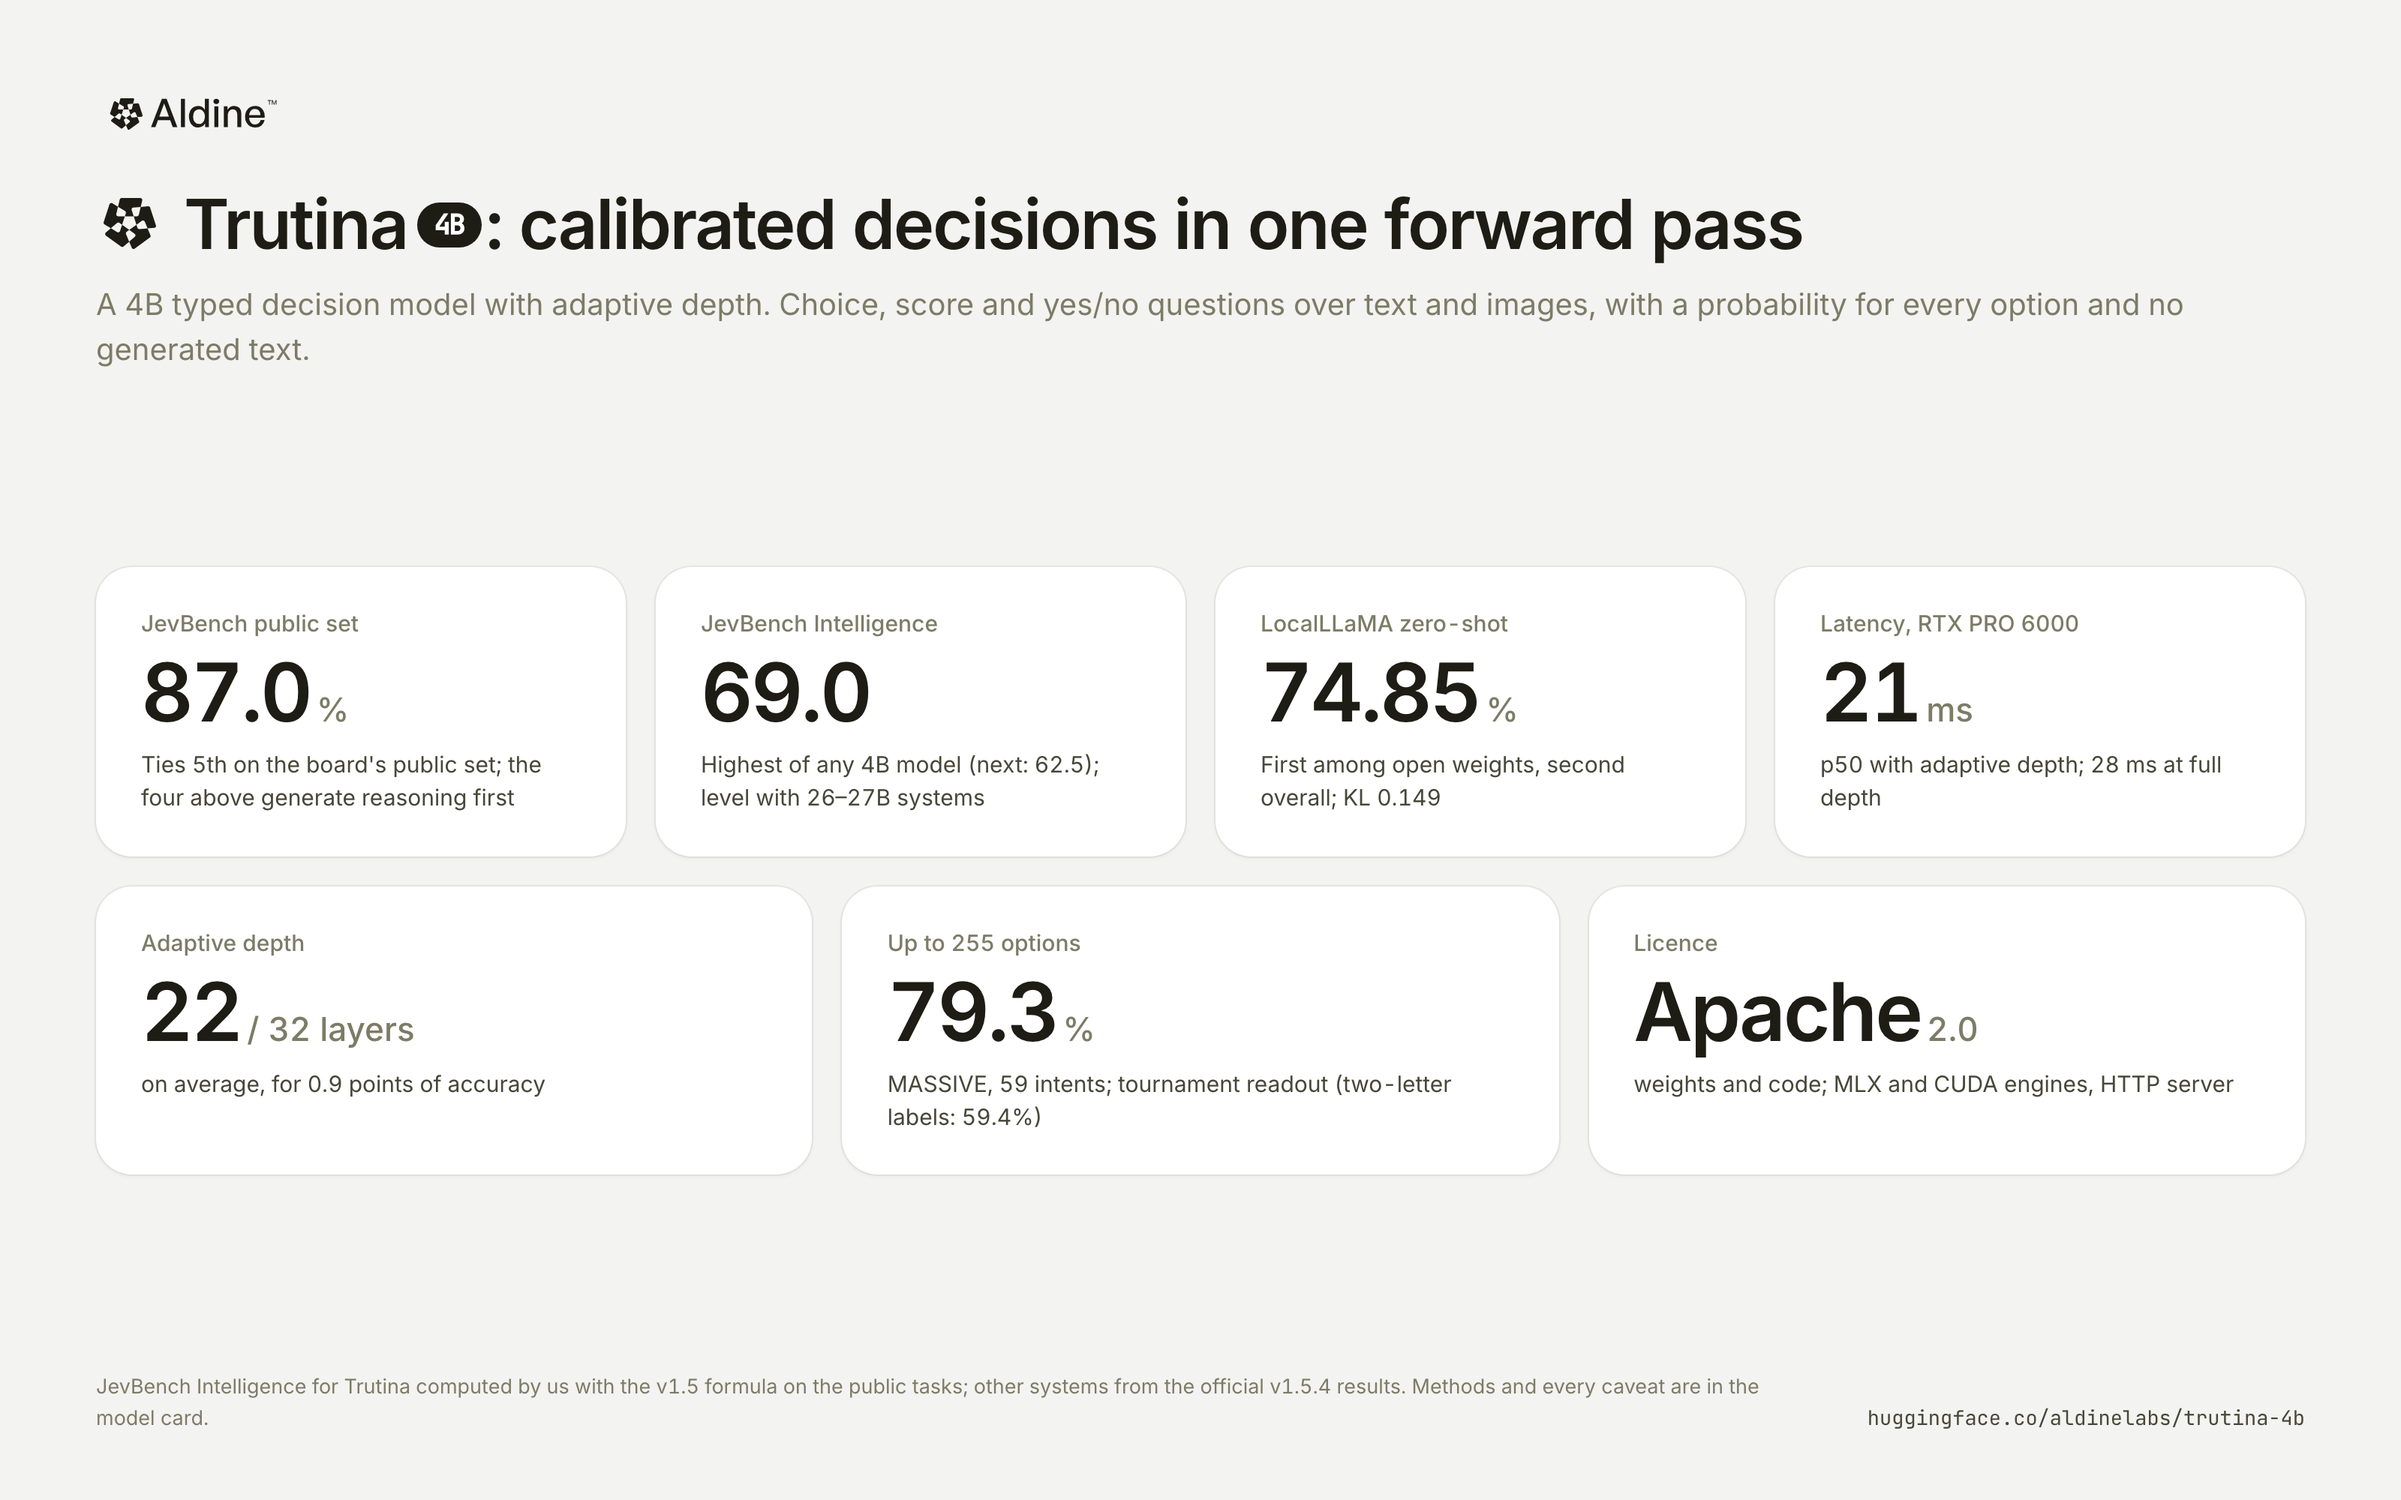
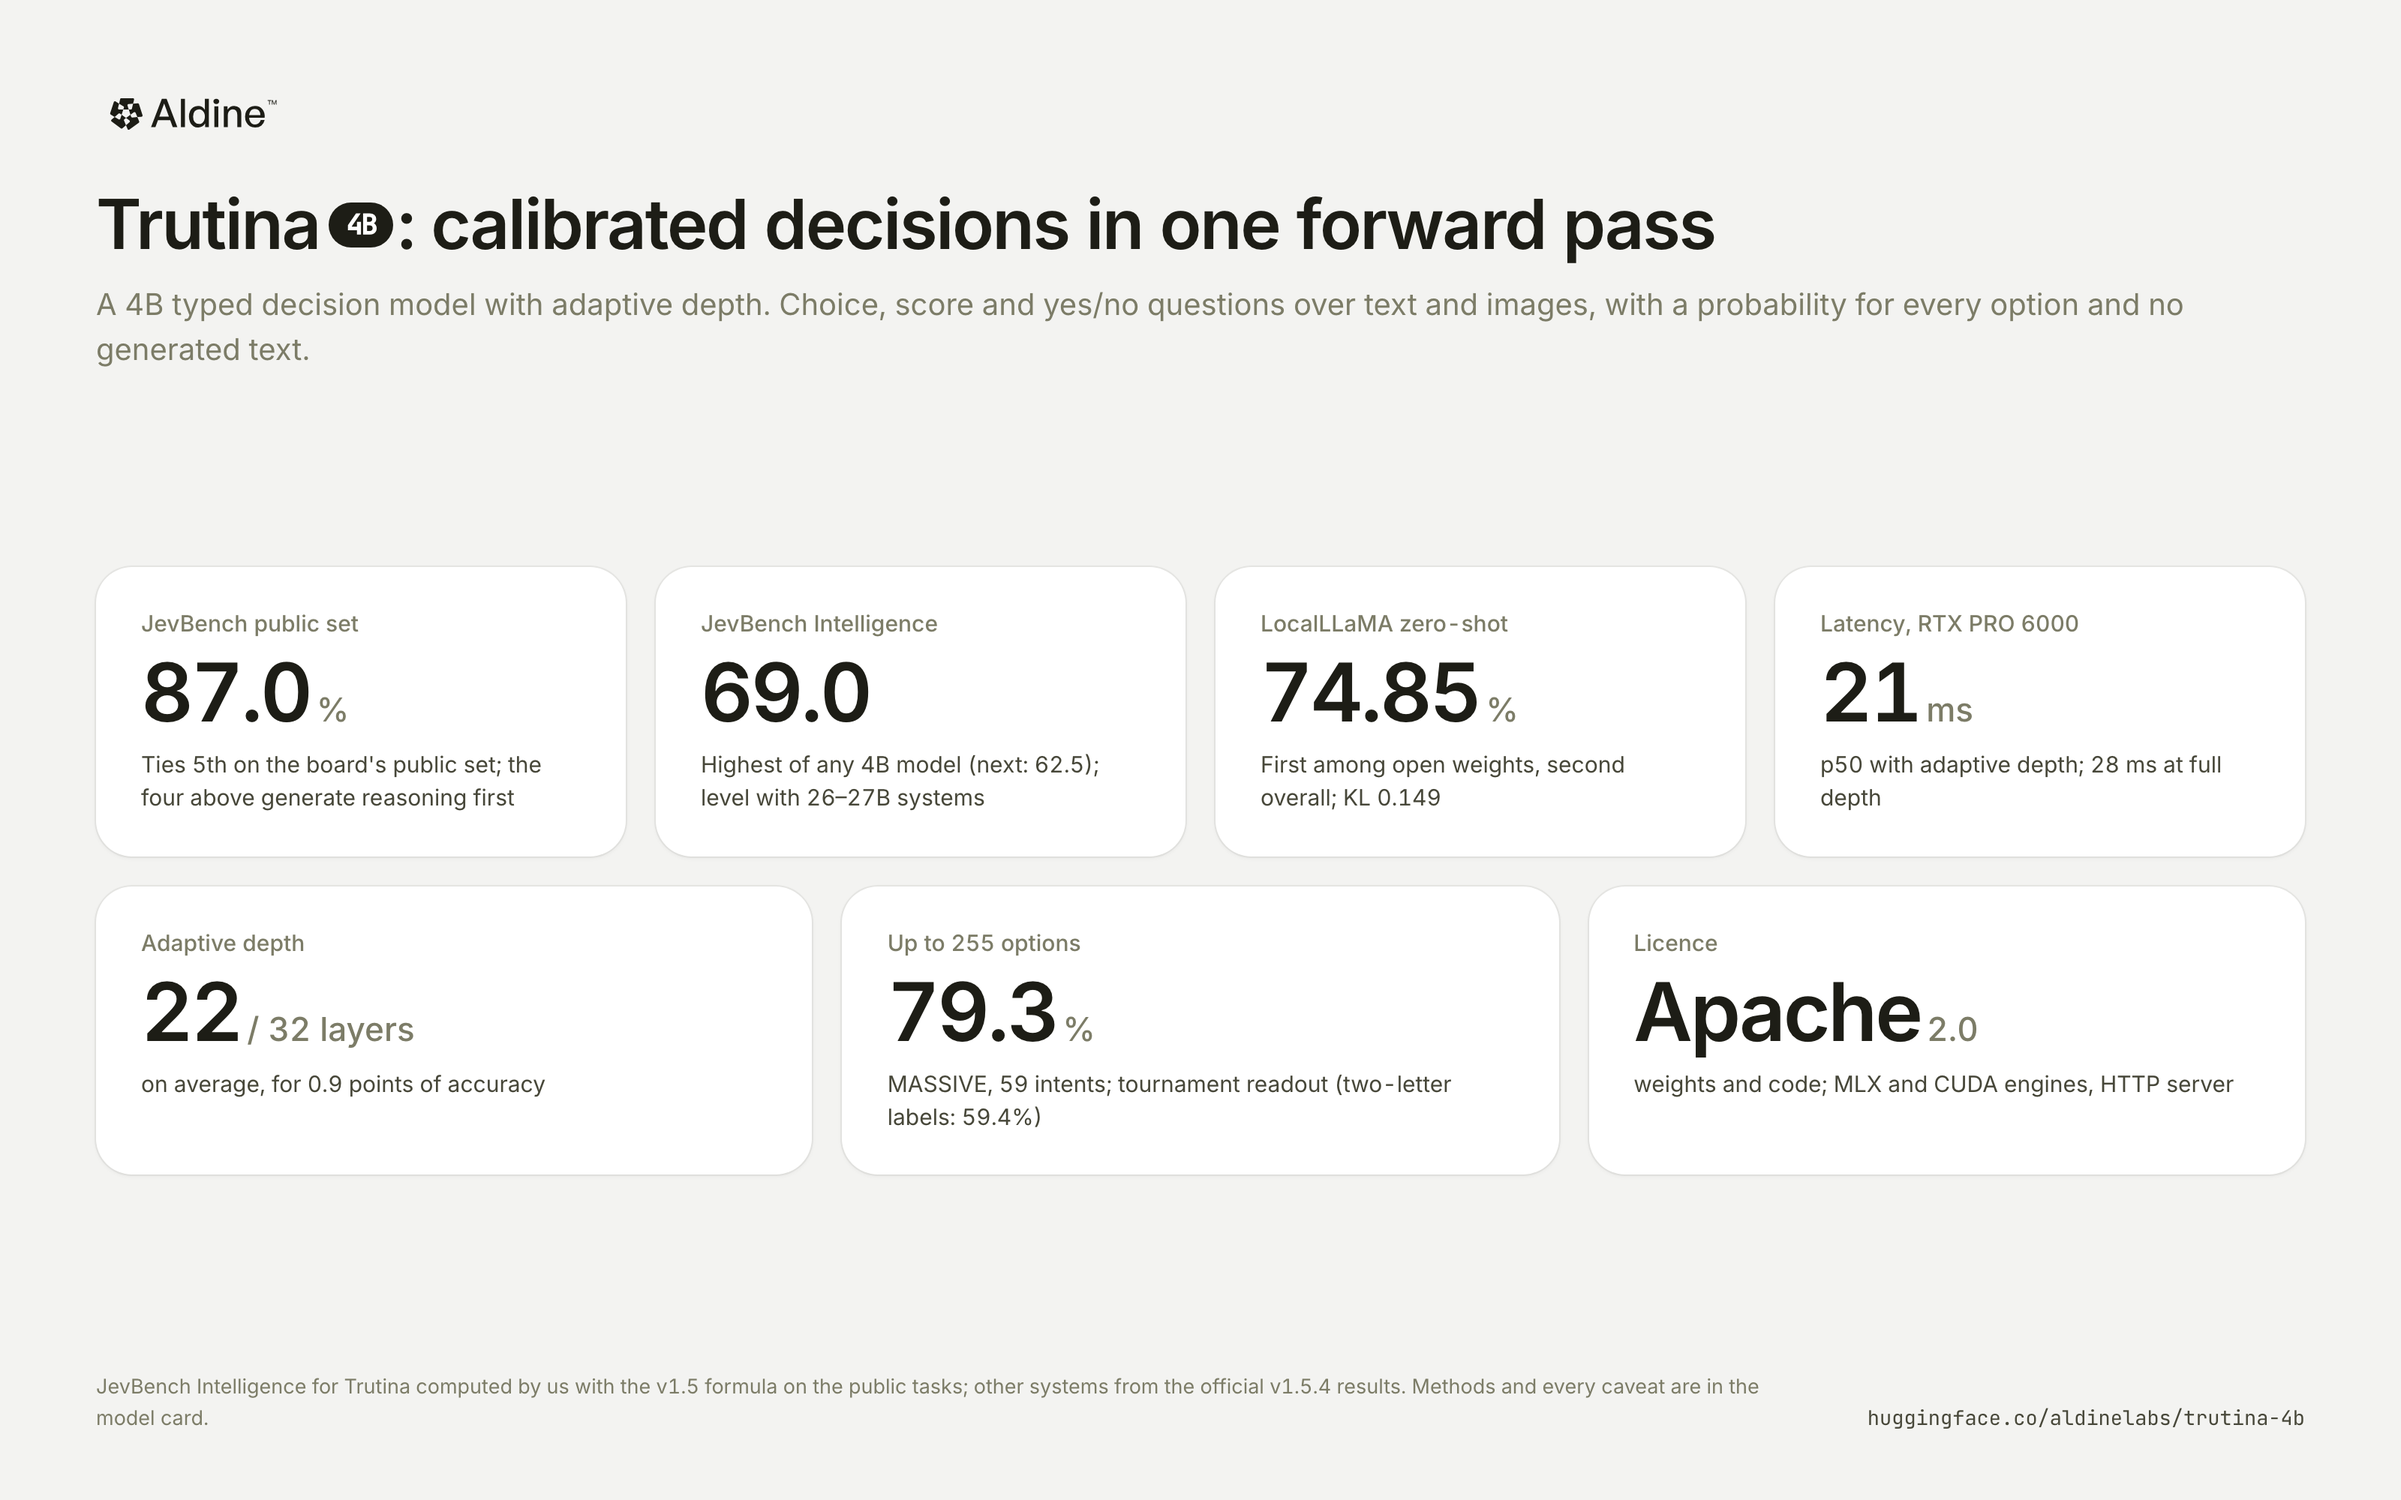
docs: no symbol before the overview title

Changed region(s): [[0.0312, 0.124, 0.75, 0.186]]

diff --git a/assets/charts/charts.html b/assets/charts/charts.html
@@ -459,11 +459,11 @@ function overview() {
       <div class="kpis">${A.slice(0, 4).map(a => kp(...a)).join("")}</div>
       <div class="kpis" style="grid-template-columns: repeat(3, 1fr)">${A.slice(4).map(a => kp(...a)).join("")}</div></div>`;
   return frame(zh ? {
-    title: `${MK}Trutina${PILL}：单次前向传播的校准决策模型`,
+    title: `Trutina${PILL}：单次前向传播的校准决策模型`,
     sub: "具备自适应深度的 4B 类型化决策模型。支持基于文本与图像的选择题、等级评分题与是非题，为每个选项输出概率，不生成文本。",
     body, src: "Trutina 的 JevBench Intelligence 按 v1.5 公式在公开题上自行计算；其他系统数据取自官方 v1.5.4 结果。评测方法与全部说明详见模型卡片。",
   } : {
-    title: `${MK}Trutina${PILL}: calibrated decisions in one forward pass`,
+    title: `Trutina${PILL}: calibrated decisions in one forward pass`,
     sub: "A 4B typed decision model with adaptive depth. Choice, score and yes/no questions over text and images, with a probability for every option and no generated text.",
     body, src: "JevBench Intelligence for Trutina computed by us with the v1.5 formula on the public tasks; other systems from the official v1.5.4 results. Methods and every caveat are in the model card.",
   });
